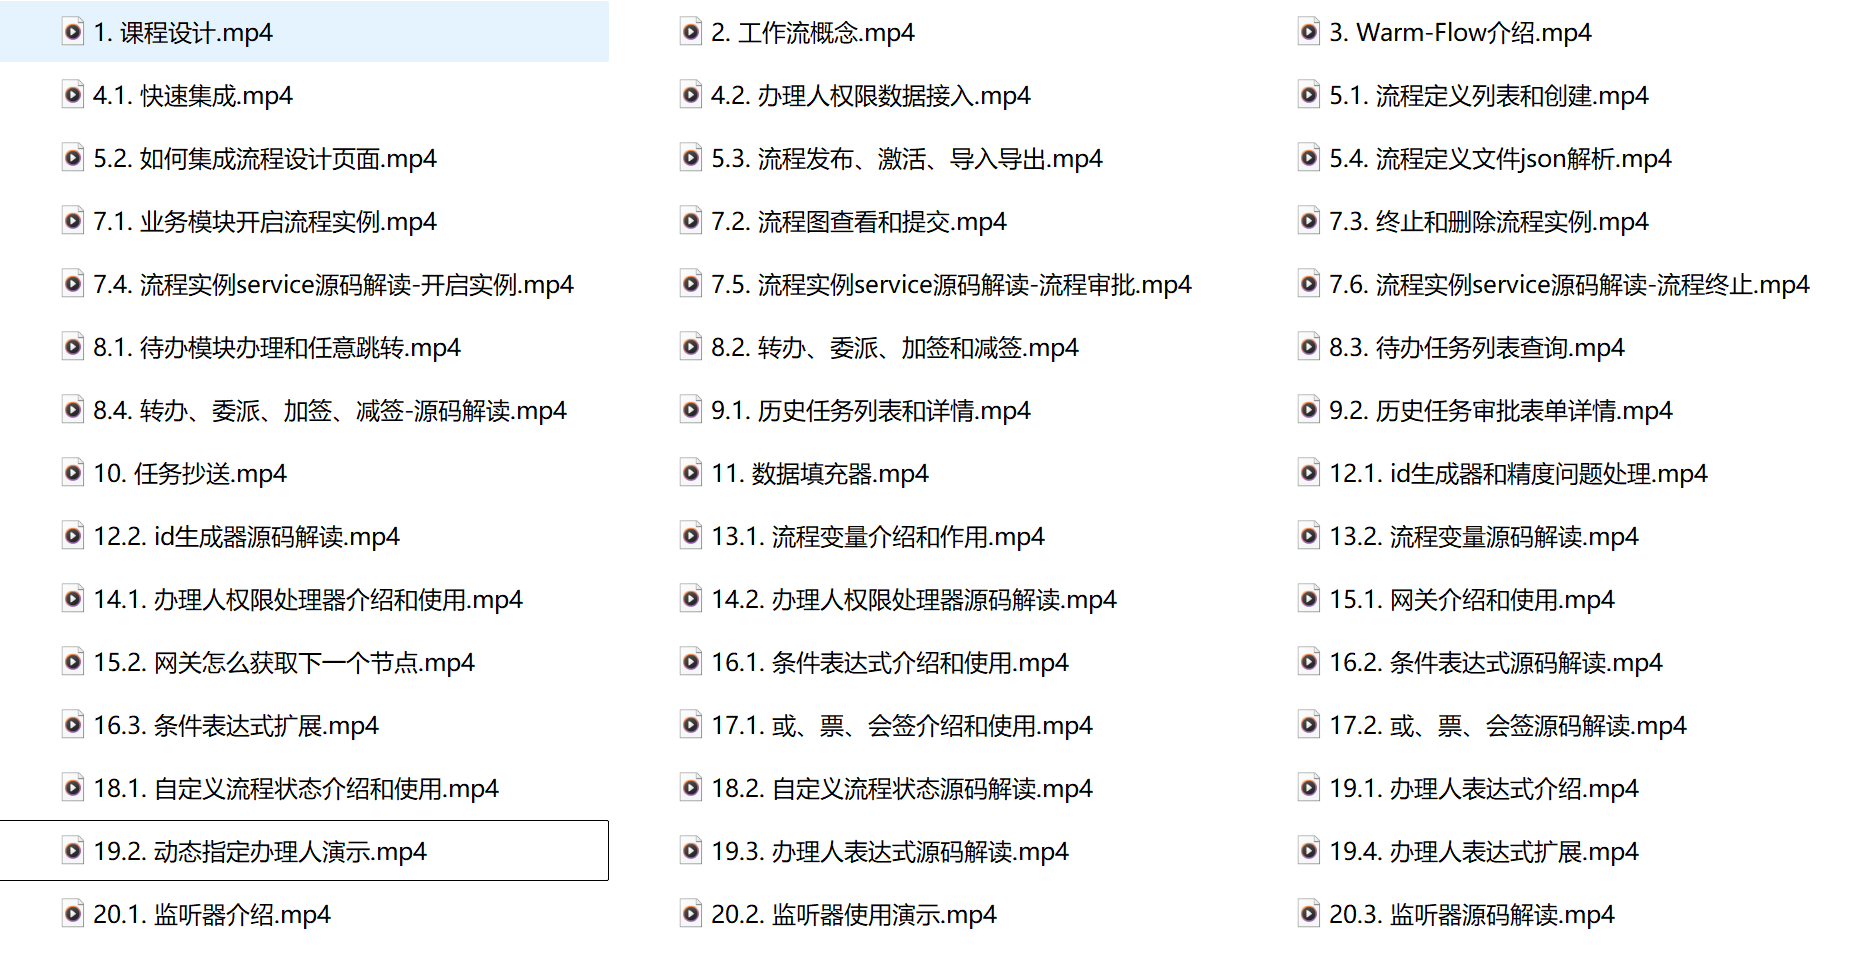
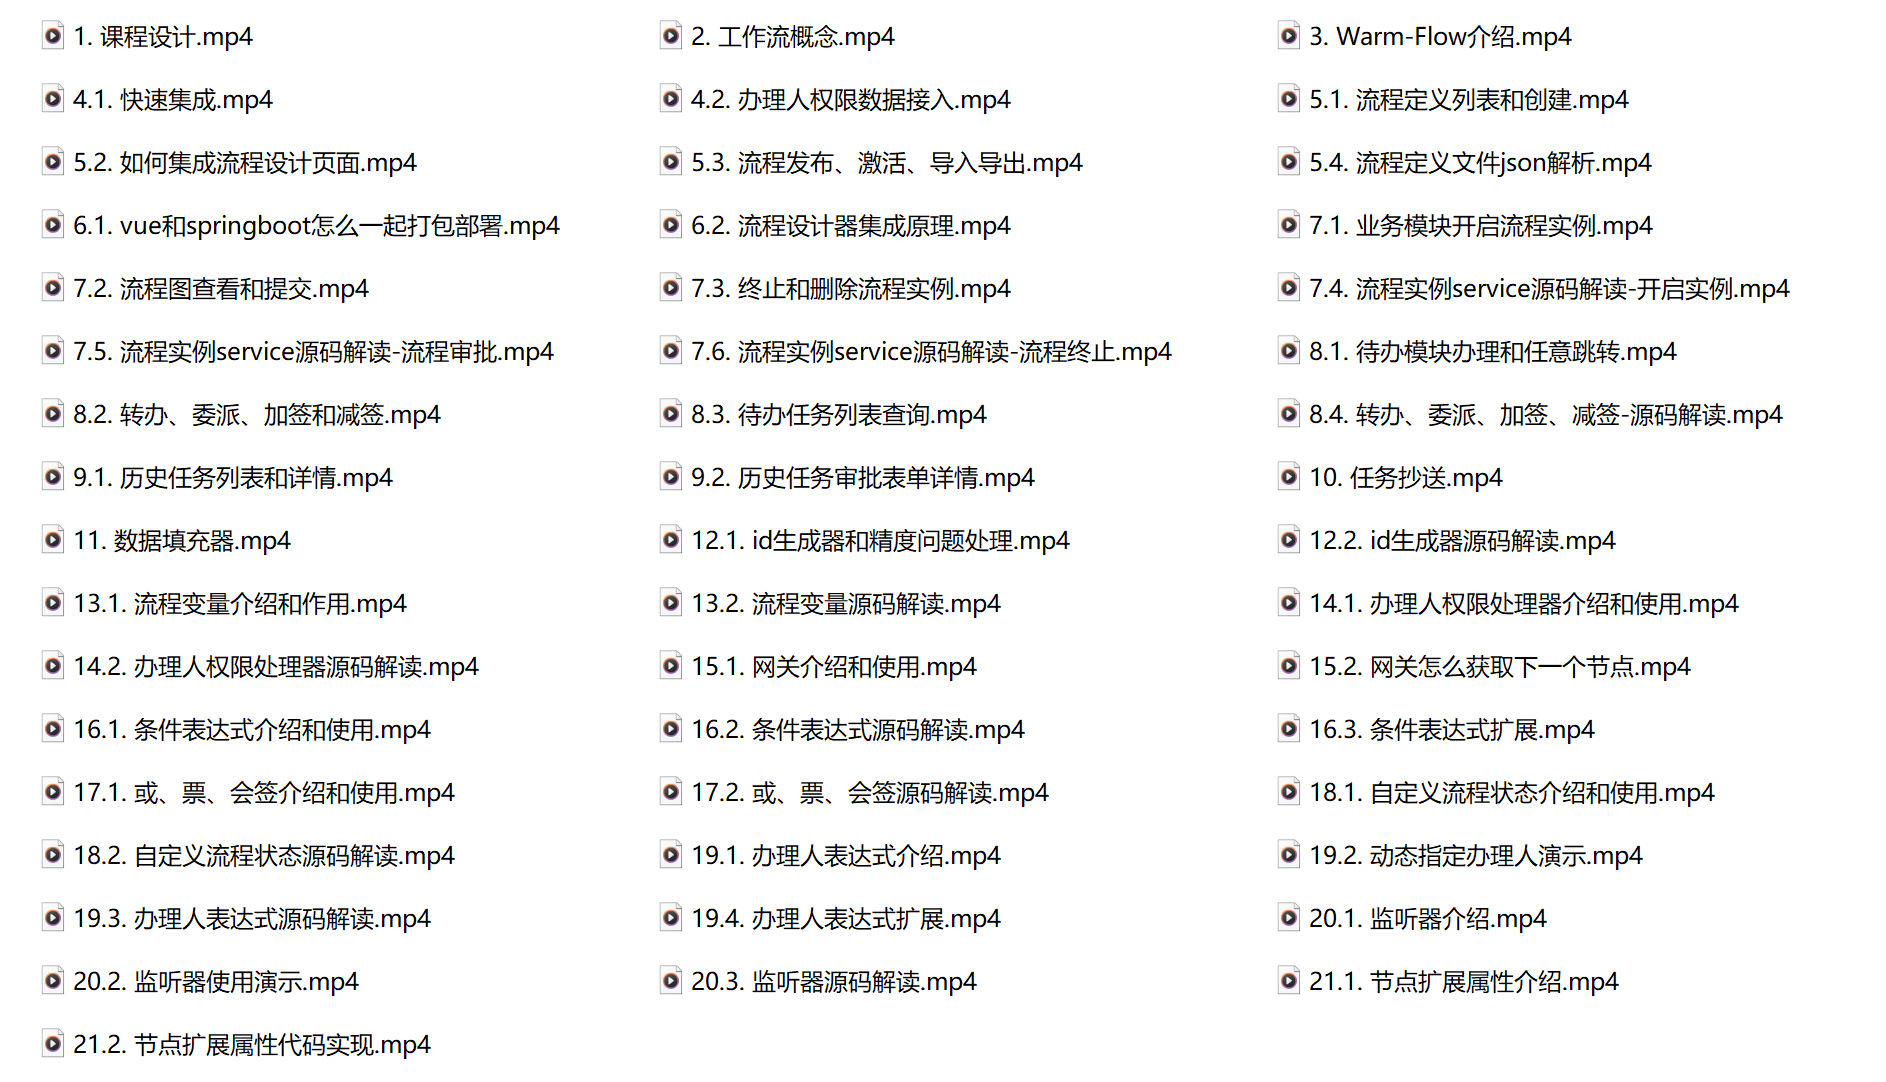
[update] 更新文档

Changed region(s): [[0.0, 0.0, 0.6453, 0.9806], [0.676, 0.0, 0.9833, 0.9499]]

diff --git a/src/master/other/videos.md b/src/master/other/videos.md
@@ -28,7 +28,7 @@
 
 
 ### **课程目录**
-- 已更新到<span class="red-font-bold">45</span>集，预计会有<span class="red-font-bold">80+</span>集，后续有新增功能，还会多
+- 已更新到<span class="red-font-bold">49</span>集，预计会有<span class="red-font-bold">80+</span>集，后续有新增功能，还会多
 
 <br>
 
